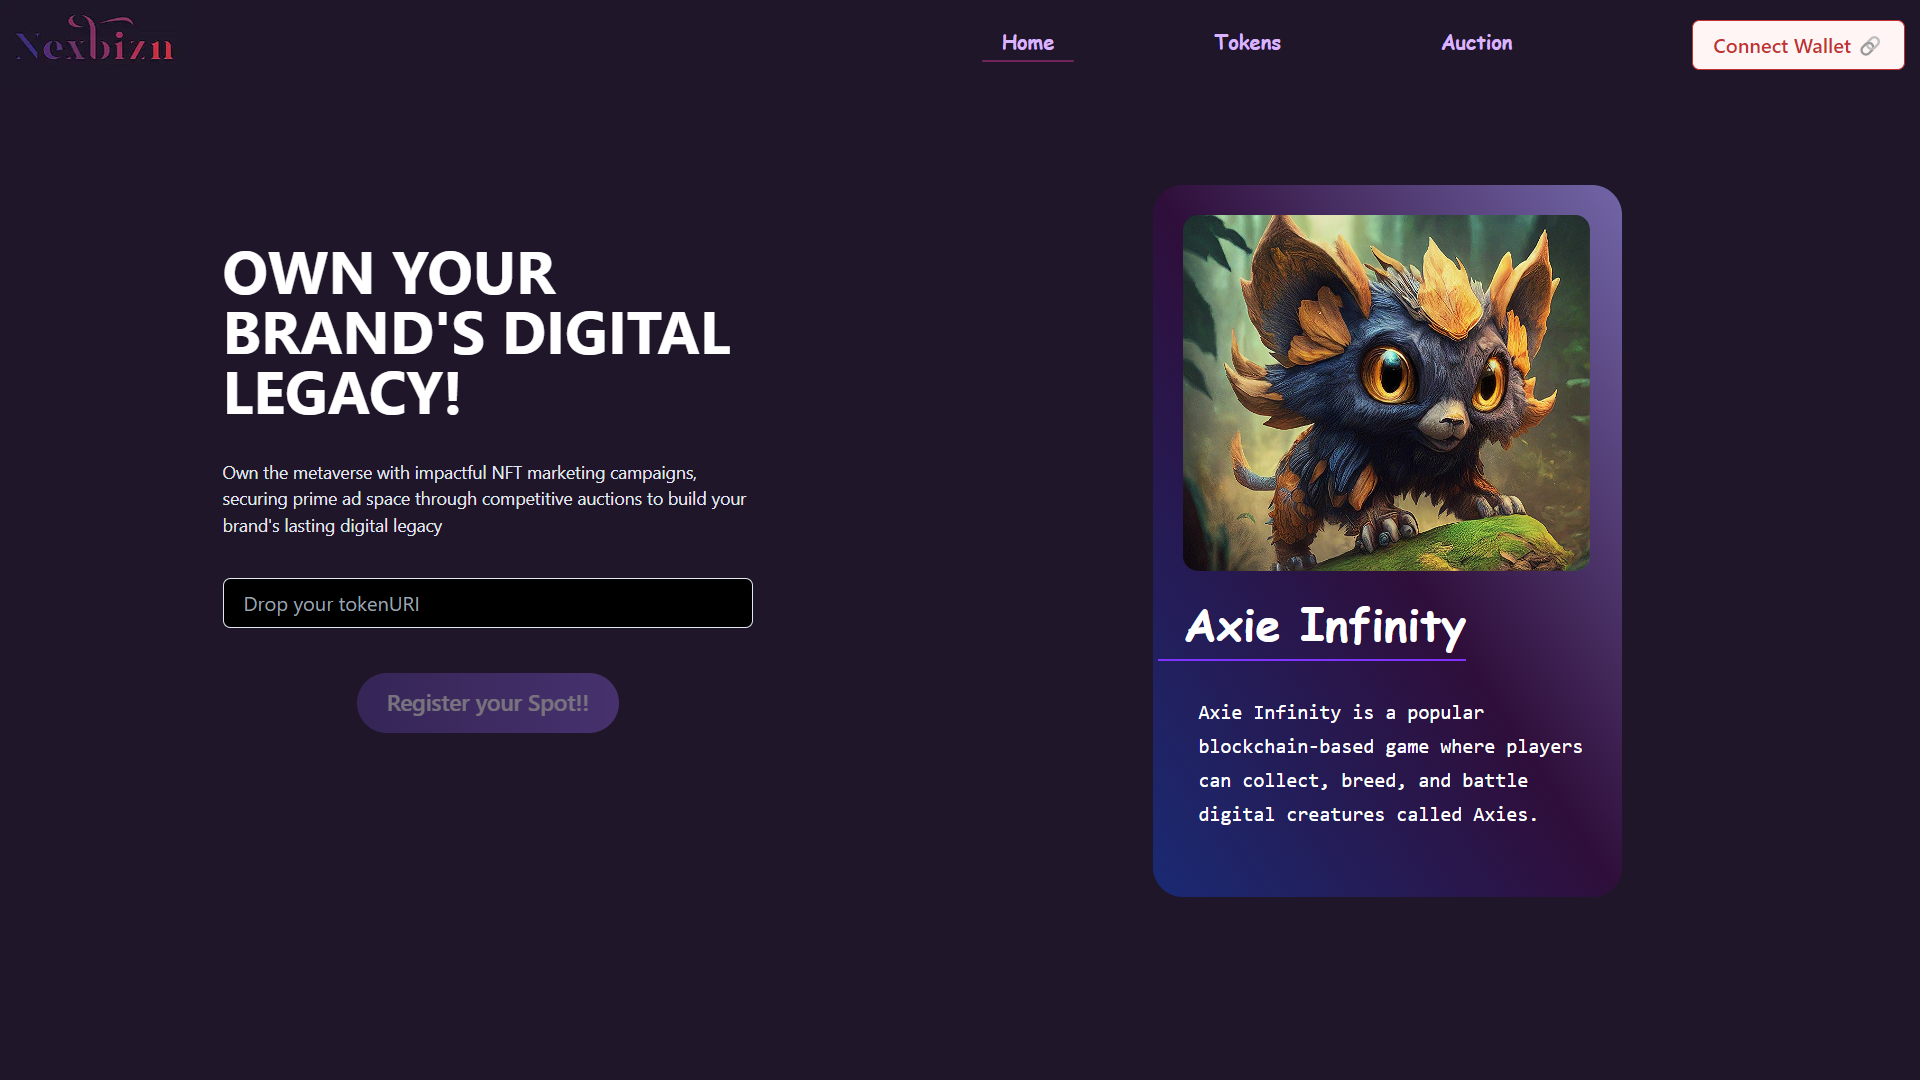
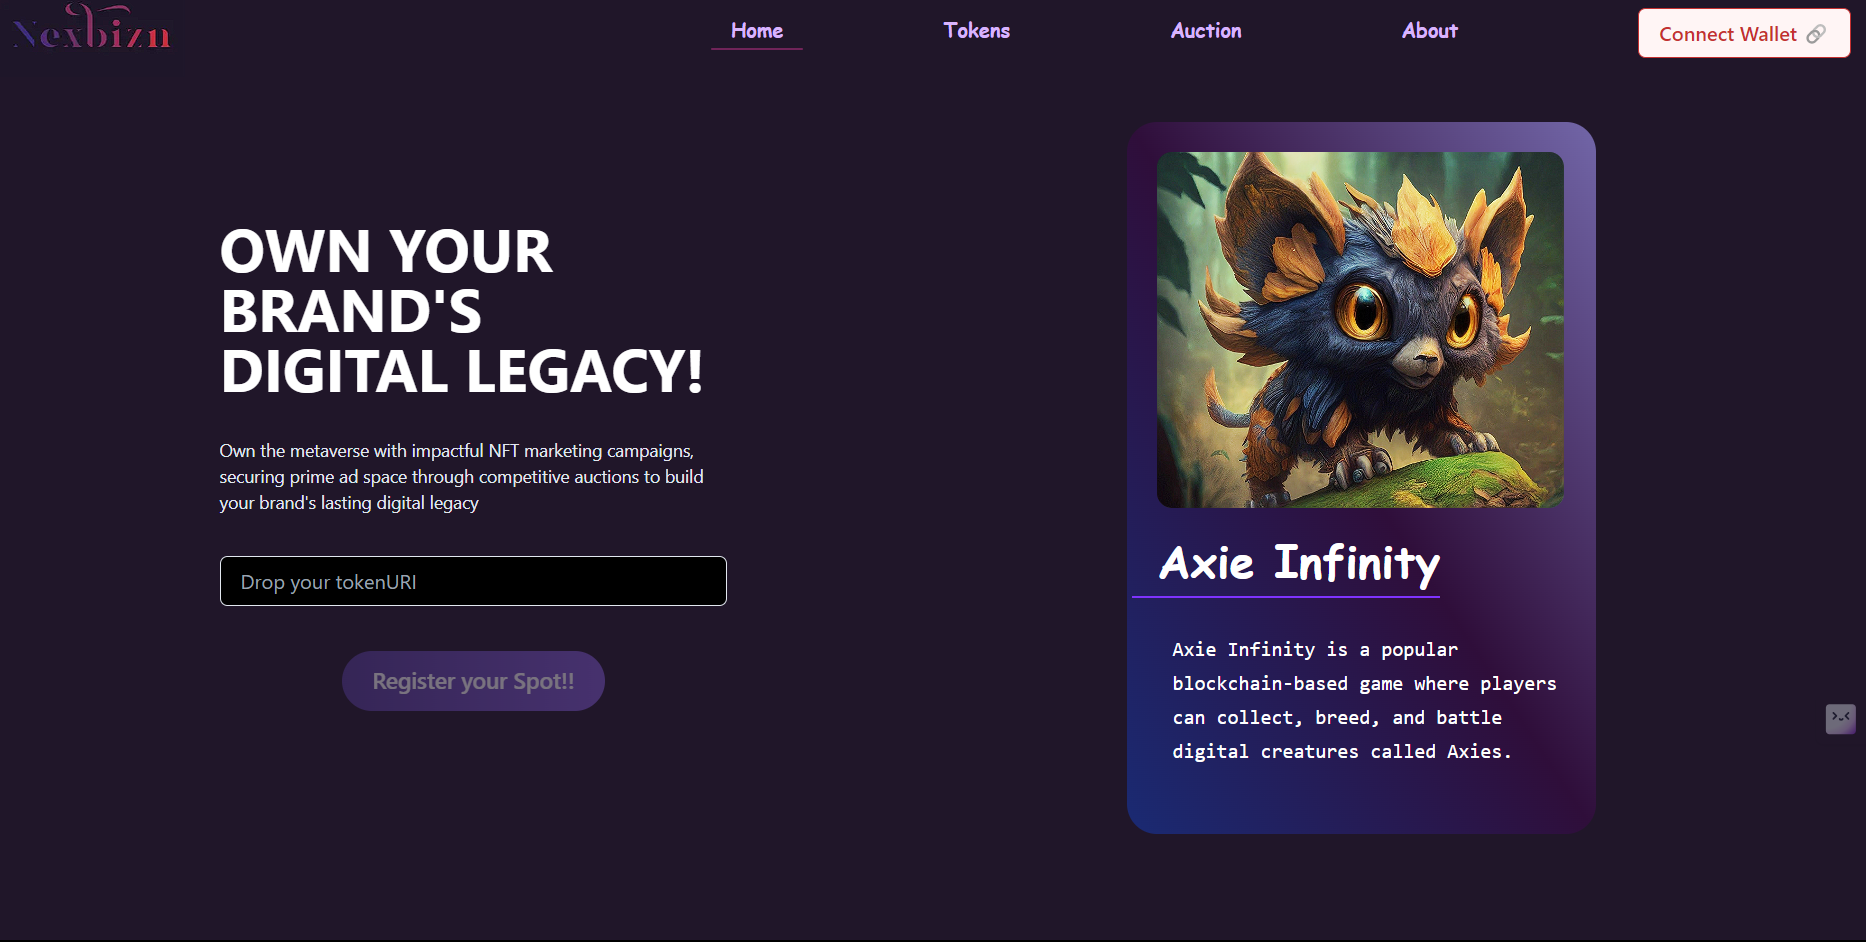
Added Screenshots

diff --git a/frontend/src/components/Navbar.jsx b/frontend/src/components/Navbar.jsx
@@ -69,6 +69,11 @@ const Navbar = () => {
                                     <p>Auction</p>
                                 </Tab>
                             </Link>
+                            <Link href="https://github.com/0xScratch/Nexbizn/blob/main/README.md">
+                                <Tab>
+                                    <p>About</p>
+                                </Tab>
+                            </Link>
                         </TabList>
                         <TabIndicator
                             mt="-5px"
